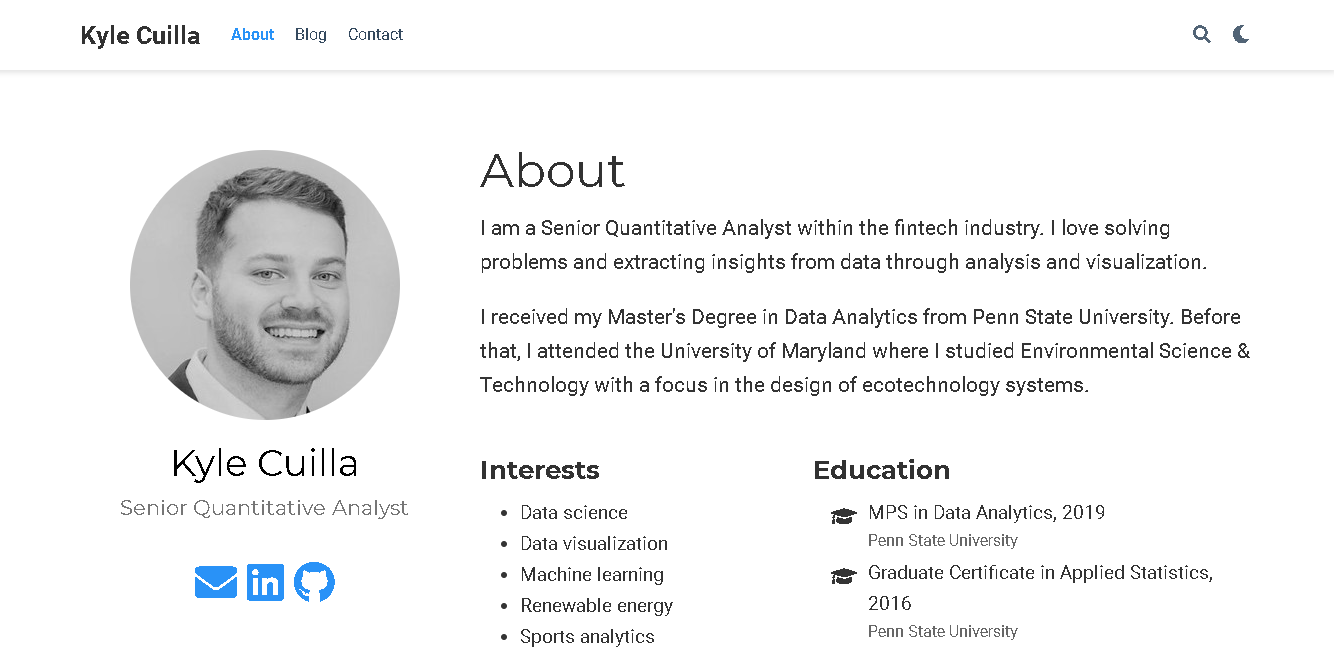
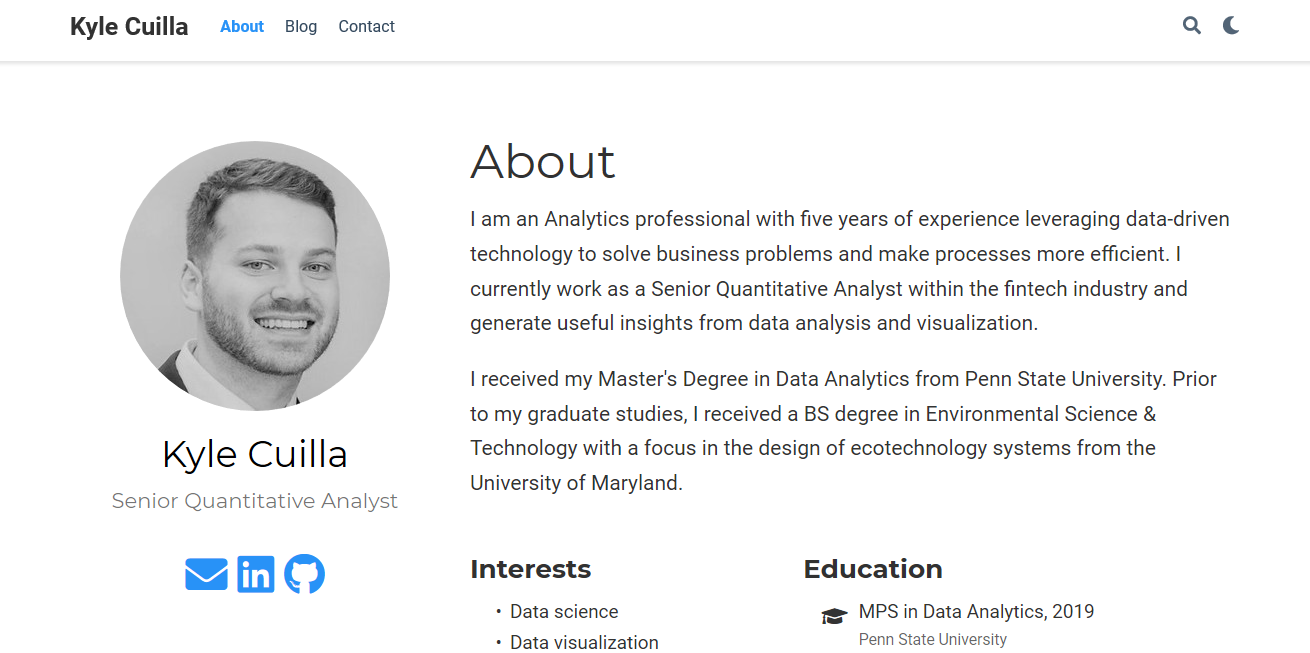
updated blog post

diff --git a/public/post/2020-02-05-blogdown/index.html b/public/post/2020-02-05-blogdown/index.html
@@ -29,7 +29,7 @@
     
   
   <meta name="description" content="The thing I enjoy most about R is the community. I’ve learned an incredible amount from people who are constantly helping others by sharing their knowledge and hard work.
-Lately, I’ve been looking for ways to give back to the community and share some of the knowledge I’ve acquired over the years in hopes of helping others like myself. That’s when I then stumbled upon blogdown, an R package designed to help you create your own website.">
+Lately, I’ve been looking for ways to give back to the community and share some of the knowledge I’ve acquired over the years in hopes of helping others like myself. That’s when I stumbled upon blogdown, an R package designed to help you create your own website.">
 
   
   <link rel="alternate" hreflang="en-us" href="/post/2020-02-05-blogdown/">
@@ -231,7 +231,7 @@ Lately, I’ve been looking for ways to give back to the community and share som
   <meta property="og:url" content="/post/2020-02-05-blogdown/">
   <meta property="og:title" content="How to Create a Website in R Using the Blogdown Package | Kyle Cuilla">
   <meta property="og:description" content="The thing I enjoy most about R is the community. I’ve learned an incredible amount from people who are constantly helping others by sharing their knowledge and hard work.
-Lately, I’ve been looking for ways to give back to the community and share some of the knowledge I’ve acquired over the years in hopes of helping others like myself. That’s when I then stumbled upon blogdown, an R package designed to help you create your own website."><meta property="og:image" content="img/map[gravatar:%!s(bool=false) shape:circle]">
+Lately, I’ve been looking for ways to give back to the community and share some of the knowledge I’ve acquired over the years in hopes of helping others like myself. That’s when I stumbled upon blogdown, an R package designed to help you create your own website."><meta property="og:image" content="img/map[gravatar:%!s(bool=false) shape:circle]">
   <meta property="twitter:image" content="img/map[gravatar:%!s(bool=false) shape:circle]"><meta property="og:locale" content="en-us">
   
     
@@ -283,7 +283,7 @@ Lately, I’ve been looking for ways to give back to the community and share som
       "url": "img//"
     }
   },
-  "description": "The thing I enjoy most about R is the community. I’ve learned an incredible amount from people who are constantly helping others by sharing their knowledge and hard work.\nLately, I’ve been looking for ways to give back to the community and share some of the knowledge I’ve acquired over the years in hopes of helping others like myself. That’s when I then stumbled upon blogdown, an R package designed to help you create your own website."
+  "description": "The thing I enjoy most about R is the community. I’ve learned an incredible amount from people who are constantly helping others by sharing their knowledge and hard work.\nLately, I’ve been looking for ways to give back to the community and share some of the knowledge I’ve acquired over the years in hopes of helping others like myself. That’s when I stumbled upon blogdown, an R package designed to help you create your own website."
 }
 </script>
 
@@ -584,8 +584,8 @@ Lately, I’ve been looking for ways to give back to the community and share som
 
 
 <p>The thing I enjoy most about R is the community. I’ve learned an incredible amount from people who are constantly helping others by sharing their knowledge and hard work.</p>
-<p>Lately, I’ve been looking for ways to give back to the community and share some of the knowledge I’ve acquired over the years in hopes of helping others like myself. That’s when I then stumbled upon <code>blogdown</code>, an R package designed to help you create your own website.</p>
-<p>This post outlines how I was able to create my site using <code>blogdown</code> and a couple other tools, as well as some resources that were beneficial to me during the process.</p>
+<p>Lately, I’ve been looking for ways to give back to the community and share some of the knowledge I’ve acquired over the years in hopes of helping others like myself. That’s when I stumbled upon <code>blogdown</code>, an R package designed to help you create your own website.</p>
+<p>This post outlines how I was able to create my website using <code>blogdown</code> and a couple other tools, as well as some resources that were beneficial to me during the process.</p>
 <div id="getting-started" class="section level1">
 <h1>Getting Started</h1>
 <p>I highly recommend reading the first few chapters of <a href="https://bookdown.org/yihui/blogdown/">blogdown: Creating Websites with R Markdown</a> by Yihui Xie, Amber Thomas, and Alison Presmanes Hill. Not only does the book teach you how to use the <code>blogdown</code> package in R, but it also provides a good tutorial on <a href="https://themes.gohugo.io/">Hugo</a>, which controls the theme of your website, and <a href="https://www.netlify.com/">Netlify</a>, which is what I’m using to host my site.</p>
@@ -594,14 +594,14 @@ Lately, I’ve been looking for ways to give back to the community and share som
 <h1>GitHub and RStudio</h1>
 <p>The first thing you will need to do is create a new repository on <a href="https://github.com/">GitHub</a>. If you are new to GitHub and are not sure how to do this, all you need to do is go to your GitHub account and click <code>New repository</code> in the dropdown that looks like a plus (+) sign in the upper right-hand corner and give the repository a unique name.</p>
 <p>Once you’ve created the repository, you will need to install Git and set it up within RStudio. If you already have Git setup in RStudio, then skip ahead to the next paragraph. If it isn’t setup, then follow the instructions outlined in this <a href="http://www.geo.uzh.ch/microsite/reproducible_research/post/rr-rstudio-git/">post</a> before continuing.</p>
-<p>The next step is to create a new project in RStudio with Git version control by way of <code>File -&gt; New Project -&gt; Version Control -&gt; Git</code>. You will see the following for below:</p>
+<p>The next step is to create a new project in RStudio with Git version control by way of <code>File -&gt; New Project -&gt; Version Control -&gt; Git</code>. You will see the following form below:</p>
 <p><img src="/img/gitform.PNG" /></p>
 <ul>
-<li><b>Repository URL:</b> the URL of the GitHub repository you just made. For me, this is <a href="https://github.com/kcuilla/kcuilla-io-site" class="uri">https://github.com/kcuilla/kcuilla-io-site</a></li>
-<li><b>Project directory name:</b> the name of your GitHub repository. For me, this is kcuilla-io-site</li>
-<li><b>Create project as a subdirectory of:</b> the folder location on your local computer where all your files for the site will be stored. It doesn’t need to be named anything specific, you may name it anything you like</li>
+<li><b>Repository URL:</b> the URL of the GitHub repository you just made. For my site, this is <a href="https://github.com/kcuilla/kcuilla-io-site" class="uri">https://github.com/kcuilla/kcuilla-io-site</a></li>
+<li><b>Project directory name:</b> the name of your GitHub repository. For my site, this is kcuilla-io-site</li>
+<li><b>Create project as a subdirectory of:</b> the folder location on your local computer where all your files for the site will be stored</li>
 </ul>
-<p>After filling out the form and clicking <code>Create Project</code>, your GitHub repository is now linked to your project in RStudio and you will soon be able to see any changes you make to the files within your working directory in the <code>Git</code> tab as shown below:</p>
+<p>After filling out the form and clicking <code>Create Project</code>, your GitHub repository will be linked to your project in RStudio and you will be able to see any changes you make to the files within your working directory in the <code>Git</code> tab as shown below:</p>
 <p><img src="/img/gitenvironment.PNG" /></p>
 </div>
 <div id="blogdown-and-hugo" class="section level1">
@@ -618,22 +618,23 @@ blogdown::new_site(theme = &#39;user/repo&#39;)
 </code></pre>
 <p>The files that control the contents of the theme should now be available in your working directory and you can view them by navigating through the <code>Files</code> tab in RStudio as shown below:</p>
 <p><img src="/img/file_folders.PNG" /></p>
-<p><i>(Note: I will not go into detail on how to edit the configuration files as these differ for each theme. However, normally there are tutorials provided by the theme creators, and if you’re interested in the edits that I made for the Academic theme, you can view them on my <a href="https://github.com/kcuilla/kcuilla.github.io">GitHub</a>).</i></p>
-<p>In order view your configuration edits to your site, run <code>blogdown::serve_site()</code> and you will be able to see a preview of your website in the <code>Viewer</code> tab in RStudio (or you have the option to view it in your browser by clicking the ‘Show in new window’ icon):</p>
+<p><i>(Note: I will not go into detail on how to edit the configuration files as these differ for each theme. However, normally there are tutorials provided by the theme creators, and if you’re interested in the edits that I made for the Academic theme, you can view them on my <a href="https://github.com/kcuilla/kcuilla.github.io">GitHub</a>)</i></p>
+<p>In order view your configuration edits to your site, run <code>blogdown::serve_site()</code> and you will be able to see a preview of your website in the <code>Viewer</code> tab in RStudio. You also have the option to view it in your browser by clicking the ‘Show in new window’ icon.</p>
 </div>
 <div id="git-and-netlify" class="section level1">
 <h1>Git and Netlify</h1>
 <p>Before deploying your site on Netlify, you’ll first need to push them to your GitHub repository using Git in RStudio.</p>
-<p>There are a couple of different ways to do this. If you are already comfortable using Git commands, then you can use <code>git commit</code> and <code>git push</code> in your Terminal to push the files to your GitHub repository.</p>
+<p>There are a couple ways to do this. If you are already comfortable using Git commands, then you can use <code>git commit</code> and <code>git push</code> in your Terminal.</p>
 <p>However, if you’re unfamiliar with Git, RStudio has a Git interface that makes this step easier.</p>
 <p>Within the <code>Git</code> tab, click the <code>Commit</code> button. This will pop open a window that looks like the image shown below. You can select the changes you wish to commit by clicking the check boxes in the ‘Staged’ column. Then, you will need to provide a commit message that describes the changes you made before clicking the <code>Commit</code> button.</p>
 <p><img src="/img/gitcommit.PNG" /></p>
-<p>Once you click <code>Commit</code>, the files you selected should disappear, and now all you need to do is click the <code>Push</code> button with the green arrow next to it and the files will be pushed to your repository and you should be able to see them all in GitHub.</p>
+<p>Once you click <code>Commit</code>, the files you selected should disappear, and now all you need to do is click the <code>Push</code> button and the files will be pushed to your repository and you should be able to see them all in GitHub as shown below.</p>
 <p><img src="/img/githubpage.PNG" /></p>
 <p>Now that you have all of your files on GitHub, you can deploy your site using <a href="https://www.netlify.com/">Netlify</a>.</p>
-<p>After signing up for an account, you just need to click the <code>New Site from Git</code> button and follow the steps to link Netlify to your GitHub repository and Netlify will give you a randomly-generated domain name for you site. You then can change the domain name within the <code>Site Settings</code>.</p>
+<p>After signing up for an account, click the <code>New Site from Git</code> button and follow the steps to link Netlify to your GitHub repository. Netlify will give you a randomly-generated domain name for you site, but you can change the name within the <code>Site Settings</code>.</p>
+<p>Test out the site in your browser to make sure everything is up and running as expected:</p>
 <p><img src="/img/website.PNG" /></p>
-<p>And there you have it. Your site should now be up and running. If you want to make any edits to it in the future, all you’ll need to do is push the commits to your GitHub repository and Netlify will automatically update the content.</p>
+<p>If you want to make any edits to your site in the future, all you will need to do is edit the configuration files in RStudio, push the commits to your GitHub repository, and then Netlify will automatically update to display the new content.</p>
 </div>
 
     </div>

diff --git a/content/post/2020-02-05-blogdown.html b/content/post/2020-02-05-blogdown.html
@@ -9,8 +9,8 @@ categories: ["R"]
 
 
 <p>The thing I enjoy most about R is the community. I’ve learned an incredible amount from people who are constantly helping others by sharing their knowledge and hard work.</p>
-<p>Lately, I’ve been looking for ways to give back to the community and share some of the knowledge I’ve acquired over the years in hopes of helping others like myself. That’s when I then stumbled upon <code>blogdown</code>, an R package designed to help you create your own website.</p>
-<p>This post outlines how I was able to create my site using <code>blogdown</code> and a couple other tools, as well as some resources that were beneficial to me during the process.</p>
+<p>Lately, I’ve been looking for ways to give back to the community and share some of the knowledge I’ve acquired over the years in hopes of helping others like myself. That’s when I stumbled upon <code>blogdown</code>, an R package designed to help you create your own website.</p>
+<p>This post outlines how I was able to create my website using <code>blogdown</code> and a couple other tools, as well as some resources that were beneficial to me during the process.</p>
 <div id="getting-started" class="section level1">
 <h1>Getting Started</h1>
 <p>I highly recommend reading the first few chapters of <a href="https://bookdown.org/yihui/blogdown/">blogdown: Creating Websites with R Markdown</a> by Yihui Xie, Amber Thomas, and Alison Presmanes Hill. Not only does the book teach you how to use the <code>blogdown</code> package in R, but it also provides a good tutorial on <a href="https://themes.gohugo.io/">Hugo</a>, which controls the theme of your website, and <a href="https://www.netlify.com/">Netlify</a>, which is what I’m using to host my site.</p>
@@ -19,14 +19,14 @@ categories: ["R"]
 <h1>GitHub and RStudio</h1>
 <p>The first thing you will need to do is create a new repository on <a href="https://github.com/">GitHub</a>. If you are new to GitHub and are not sure how to do this, all you need to do is go to your GitHub account and click <code>New repository</code> in the dropdown that looks like a plus (+) sign in the upper right-hand corner and give the repository a unique name.</p>
 <p>Once you’ve created the repository, you will need to install Git and set it up within RStudio. If you already have Git setup in RStudio, then skip ahead to the next paragraph. If it isn’t setup, then follow the instructions outlined in this <a href="http://www.geo.uzh.ch/microsite/reproducible_research/post/rr-rstudio-git/">post</a> before continuing.</p>
-<p>The next step is to create a new project in RStudio with Git version control by way of <code>File -&gt; New Project -&gt; Version Control -&gt; Git</code>. You will see the following for below:</p>
+<p>The next step is to create a new project in RStudio with Git version control by way of <code>File -&gt; New Project -&gt; Version Control -&gt; Git</code>. You will see the following form below:</p>
 <p><img src="/img/gitform.PNG" /></p>
 <ul>
-<li><b>Repository URL:</b> the URL of the GitHub repository you just made. For me, this is <a href="https://github.com/kcuilla/kcuilla-io-site" class="uri">https://github.com/kcuilla/kcuilla-io-site</a></li>
-<li><b>Project directory name:</b> the name of your GitHub repository. For me, this is kcuilla-io-site</li>
-<li><b>Create project as a subdirectory of:</b> the folder location on your local computer where all your files for the site will be stored. It doesn’t need to be named anything specific, you may name it anything you like</li>
+<li><b>Repository URL:</b> the URL of the GitHub repository you just made. For my site, this is <a href="https://github.com/kcuilla/kcuilla-io-site" class="uri">https://github.com/kcuilla/kcuilla-io-site</a></li>
+<li><b>Project directory name:</b> the name of your GitHub repository. For my site, this is kcuilla-io-site</li>
+<li><b>Create project as a subdirectory of:</b> the folder location on your local computer where all your files for the site will be stored</li>
 </ul>
-<p>After filling out the form and clicking <code>Create Project</code>, your GitHub repository is now linked to your project in RStudio and you will soon be able to see any changes you make to the files within your working directory in the <code>Git</code> tab as shown below:</p>
+<p>After filling out the form and clicking <code>Create Project</code>, your GitHub repository will be linked to your project in RStudio and you will be able to see any changes you make to the files within your working directory in the <code>Git</code> tab as shown below:</p>
 <p><img src="/img/gitenvironment.PNG" /></p>
 </div>
 <div id="blogdown-and-hugo" class="section level1">
@@ -43,20 +43,21 @@ blogdown::new_site(theme = &#39;user/repo&#39;)
 </code></pre>
 <p>The files that control the contents of the theme should now be available in your working directory and you can view them by navigating through the <code>Files</code> tab in RStudio as shown below:</p>
 <p><img src="/img/file_folders.PNG" /></p>
-<p><i>(Note: I will not go into detail on how to edit the configuration files as these differ for each theme. However, normally there are tutorials provided by the theme creators, and if you’re interested in the edits that I made for the Academic theme, you can view them on my <a href="https://github.com/kcuilla/kcuilla.github.io">GitHub</a>).</i></p>
-<p>In order view your configuration edits to your site, run <code>blogdown::serve_site()</code> and you will be able to see a preview of your website in the <code>Viewer</code> tab in RStudio (or you have the option to view it in your browser by clicking the ‘Show in new window’ icon):</p>
+<p><i>(Note: I will not go into detail on how to edit the configuration files as these differ for each theme. However, normally there are tutorials provided by the theme creators, and if you’re interested in the edits that I made for the Academic theme, you can view them on my <a href="https://github.com/kcuilla/kcuilla.github.io">GitHub</a>)</i></p>
+<p>In order view your configuration edits to your site, run <code>blogdown::serve_site()</code> and you will be able to see a preview of your website in the <code>Viewer</code> tab in RStudio. You also have the option to view it in your browser by clicking the ‘Show in new window’ icon.</p>
 </div>
 <div id="git-and-netlify" class="section level1">
 <h1>Git and Netlify</h1>
 <p>Before deploying your site on Netlify, you’ll first need to push them to your GitHub repository using Git in RStudio.</p>
-<p>There are a couple of different ways to do this. If you are already comfortable using Git commands, then you can use <code>git commit</code> and <code>git push</code> in your Terminal to push the files to your GitHub repository.</p>
+<p>There are a couple ways to do this. If you are already comfortable using Git commands, then you can use <code>git commit</code> and <code>git push</code> in your Terminal.</p>
 <p>However, if you’re unfamiliar with Git, RStudio has a Git interface that makes this step easier.</p>
 <p>Within the <code>Git</code> tab, click the <code>Commit</code> button. This will pop open a window that looks like the image shown below. You can select the changes you wish to commit by clicking the check boxes in the ‘Staged’ column. Then, you will need to provide a commit message that describes the changes you made before clicking the <code>Commit</code> button.</p>
 <p><img src="/img/gitcommit.PNG" /></p>
-<p>Once you click <code>Commit</code>, the files you selected should disappear, and now all you need to do is click the <code>Push</code> button with the green arrow next to it and the files will be pushed to your repository and you should be able to see them all in GitHub.</p>
+<p>Once you click <code>Commit</code>, the files you selected should disappear, and now all you need to do is click the <code>Push</code> button and the files will be pushed to your repository and you should be able to see them all in GitHub as shown below.</p>
 <p><img src="/img/githubpage.PNG" /></p>
 <p>Now that you have all of your files on GitHub, you can deploy your site using <a href="https://www.netlify.com/">Netlify</a>.</p>
-<p>After signing up for an account, you just need to click the <code>New Site from Git</code> button and follow the steps to link Netlify to your GitHub repository and Netlify will give you a randomly-generated domain name for you site. You then can change the domain name within the <code>Site Settings</code>.</p>
+<p>After signing up for an account, click the <code>New Site from Git</code> button and follow the steps to link Netlify to your GitHub repository. Netlify will give you a randomly-generated domain name for you site, but you can change the name within the <code>Site Settings</code>.</p>
+<p>Test out the site in your browser to make sure everything is up and running as expected:</p>
 <p><img src="/img/website.PNG" /></p>
-<p>And there you have it. Your site should now be up and running. If you want to make any edits to it in the future, all you’ll need to do is push the commits to your GitHub repository and Netlify will automatically update the content.</p>
+<p>If you want to make any edits to your site in the future, all you will need to do is edit the configuration files in RStudio, push the commits to your GitHub repository, and then Netlify will automatically update to display the new content.</p>
 </div>

diff --git a/public/index.html b/public/index.html
@@ -604,8 +604,8 @@
     
     <h1>About</h1>
 
-    <p>I am a Senior Quantitative Analyst within the fintech industry. I love solving problems and extracting insights from data through analysis and visualization.</p>
-<p>I received my Master's Degree in Data Analytics from Penn State University. Before that, I attended the University of Maryland where I studied Environmental Science &amp; Technology with a focus in the design of ecotechnology systems.</p>
+    <p>I am an Analytics professional with five years of experience leveraging data-driven technology to solve business problems and make processes more efficient. I currently work as a Senior Quantitative Analyst within the fintech industry and generate useful insights from data analysis and visualization.</p>
+<p>I received my Master's Degree in Data Analytics from Penn State University. Prior to my graduate studies, I received a BS degree in Environmental Science &amp; Technology with a focus in the design of ecotechnology systems from the University of Maryland.</p>
 
 
     <div class="row">

diff --git a/public/authors/admin/index.html b/public/authors/admin/index.html
@@ -545,8 +545,8 @@
     
     
 
-    <p>I am a Senior Quantitative Analyst within the fintech industry. I love solving problems and extracting insights from data through analysis and visualization.</p>
-<p>I received my Master's Degree in Data Analytics from Penn State University. Before that, I attended the University of Maryland where I studied Environmental Science &amp; Technology with a focus in the design of ecotechnology systems.</p>
+    <p>I am an Analytics professional with five years of experience leveraging data-driven technology to solve business problems and make processes more efficient. I currently work as a Senior Quantitative Analyst within the fintech industry and generate useful insights from data analysis and visualization.</p>
+<p>I received my Master's Degree in Data Analytics from Penn State University. Prior to my graduate studies, I received a BS degree in Environmental Science &amp; Technology with a focus in the design of ecotechnology systems from the University of Maryland.</p>
 
 
     <div class="row">

diff --git a/content/authors/admin/_index.md b/content/authors/admin/_index.md
@@ -43,7 +43,7 @@ user_groups:
 - Visitors
 ---
 
-I am a Senior Quantitative Analyst within the fintech industry. I love solving problems and extracting insights from data through analysis and visualization. 
+I am an Analytics professional with five years of experience leveraging data-driven technology to solve business problems and make processes more efficient. I currently work as a Senior Quantitative Analyst within the fintech industry and generate useful insights from data analysis and visualization. 
 
-I received my Master's Degree in Data Analytics from Penn State University. Before that, I attended the University of Maryland where I studied Environmental Science & Technology with a focus in the design of ecotechnology systems. 
+I received my Master's Degree in Data Analytics from Penn State University. Prior to my graduate studies, I received a BS degree in Environmental Science & Technology with a focus in the design of ecotechnology systems from the University of Maryland. 
 
